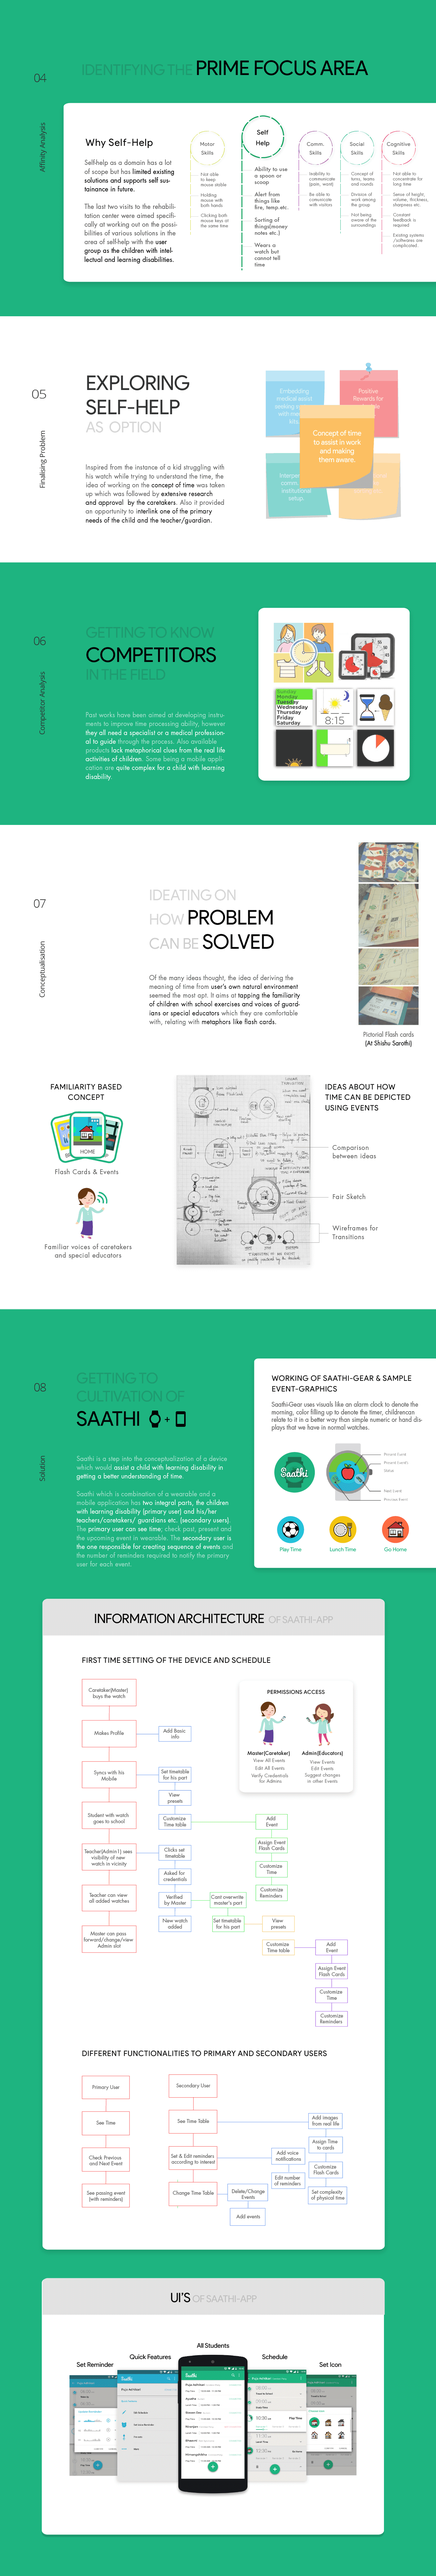
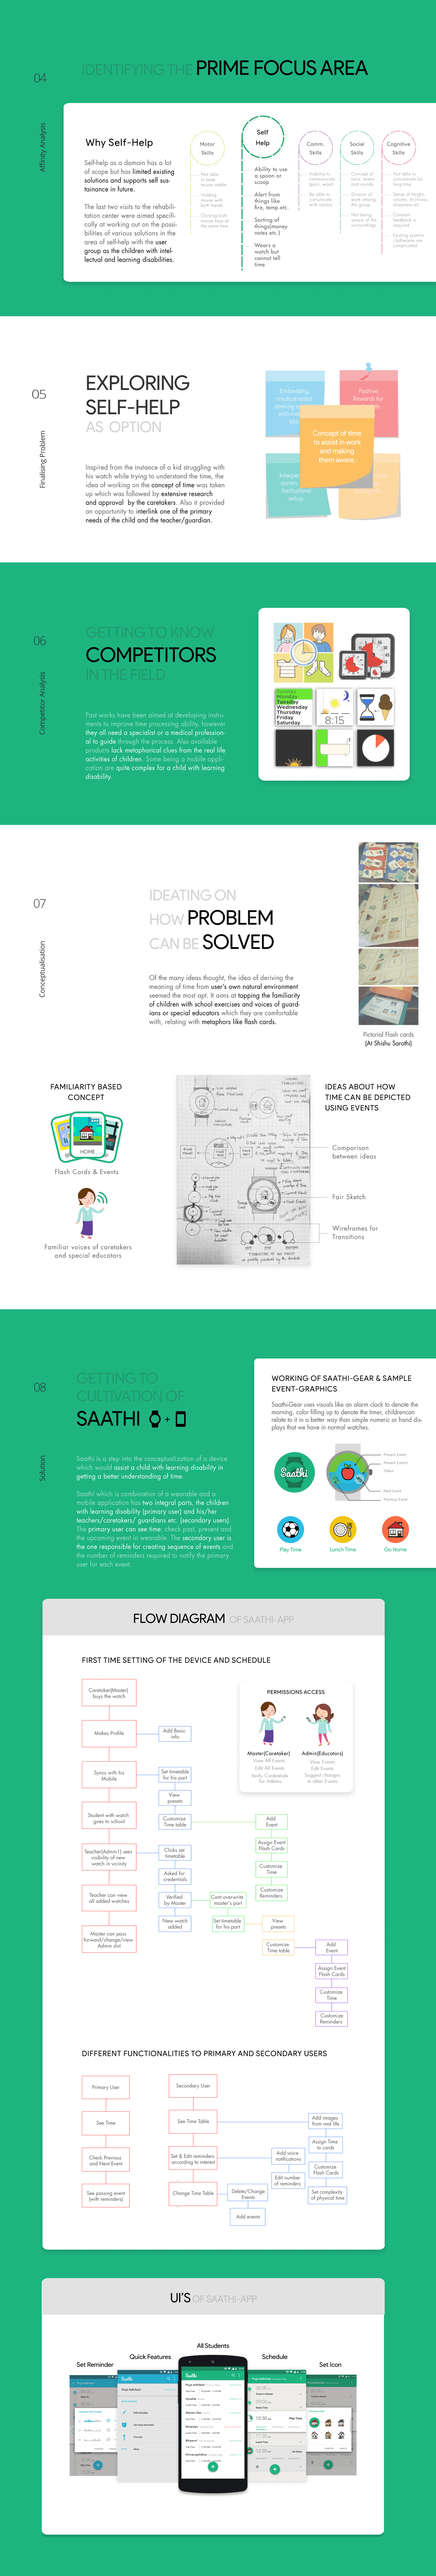
Change in project Desc.

diff --git a/app/views/projects/sigcloud.html b/app/views/projects/sigcloud.html
@@ -47,14 +47,14 @@
 		                    <strong>
 		                        <span>Design Responsibilities</span>:
 		                    </strong>
-		                    Understanding users and their goals, competitive analysis, information architecture, wireframes, icons.
+		                    Unsderstanding Vision and Ecosystem, Understanding Existing Scenario, Questionnaire and Interviews, Insights from Interviews, Conceptualisation about features, Creating Information Architecture, Prototype refinement based on Heuristics, Front-end Development.
 		                </span>
 		                <br>
 		                <span>
 		                    <strong>
 		                        <span>Technical Responsibilities</span>:
 		                    </strong>
-		                    Basic structure/layout &amp; functionalityof the pages achieved using HTML5, CSS3, Bootstrap, Jquery etc. Advanced usage of Angular.js framework for creating repetitve structures and hierarchy at many places. Use of Angular-$http,$timeout services for continous polling of data from Node.js server.
+		                    Basic structure/layout &amp; functionality of the pages achieved using HTML5, CSS3, Bootstrap, Jquery etc. Advanced usage of Angular.js framework for creating repetitve structures and hierarchy at many places. Use of Angular-$http,$timeout services for continous polling of data from Node.js server.
 		                </span>
 		            </p>
 		        </div>

diff --git a/app/views/projects/sociotags.html b/app/views/projects/sociotags.html
@@ -31,7 +31,7 @@
                       <br>
                       <span>
                           <strong>
-                              <span>Project Duration(For Submission after Reviews and Selection)</span>:
+                              <span>Project Duration</span>:
                           </strong>
                           Aug'15
                       </span>
@@ -40,8 +40,7 @@
                           <strong>
                               <span>Design Responsibilities</span>:
                           </strong>
-                          Work involved literature review, searching scenarios, filtering them, picking a scenario and
-                          brainstorming over possible solutions, making personas, coming up with mental models and final prototypes.
+                          Work involved understanding problem statement, literature review, narrowing to the final user and domain, journey mapping, questionnaires, data-visualizations, identifying pain areas, ideating, building up final solution in form of possible scenarios.
                       </span>
                       <br>
                   </p>

diff --git a/app/views/projects/anigo.html b/app/views/projects/anigo.html
@@ -54,8 +54,7 @@
                           <strong>
                               <span>Design Responsibilities</span>:
                           </strong>
-                          Work involved Market Research, Literature Review, User Understanding, Defning Guidelines, Creating Taskflows
-                          and gaps, Generating Data Flow Diagram, Developing system defnition, Ideation, Conceptualising Final Solution, Wireframing.
+                          Work involved Market Research, Literature Review, User Understanding, Getting to know the Daily User journeys, Identifying pain areas, Defining Guidelines, Conceptualising solutions to the problems, Creating User Taskflows          , Wireframing, Creating Final UI's, Building User Stories for Development.
                       </span>                    
                   </p>
               </div>

diff --git a/app/views/projects/saathi.html b/app/views/projects/saathi.html
@@ -47,7 +47,7 @@
                           <strong>
                               <span>Design Responsibilities</span>:
                           </strong>
-                          Work involved literature review, Field Visits and Contextual Inquiry, Competitor analysis, Affinity Analysis, Brainstorming, Information Architecture, Prototyping, User Testing and Evaluation.
+                          Work involved literature review, Field Visits and Contextual Inquiry, Competitor analysis, Affinity Analysis, Brainstorming, Flow Diagrams, Prototyping, User Testing and Evaluation.
                       </span>                    
                   </p>
               </div>
